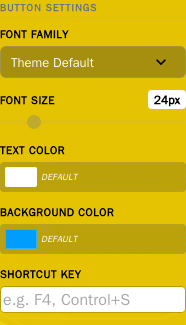
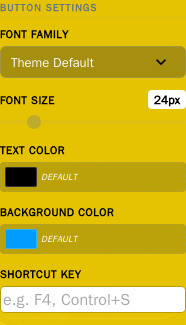
Fixed default text color in the widget inspector for the new action buttons https://github.com/daufderheide/racecoordinator_ai/issues/486

Changed region(s): [[0.0269, 0.4923, 0.2151, 0.5846]]

diff --git a/client/src/app/components/ui-editor/widget-inspector-fields/action-button-inspector/action-button-inspector.component.html b/client/src/app/components/ui-editor/widget-inspector-fields/action-button-inspector/action-button-inspector.component.html
@@ -47,7 +47,7 @@
   <div class="color-picker-wrapper" [class.is-null]="!settings['textColor']">
     <input
       type="color"
-      [value]="settings['textColor'] || '#ffffff'"
+      [value]="settings['textColor'] || '#000000'"
       (change)="onColorChange('textColor', $event)"
       class="color-picker-input"
     />